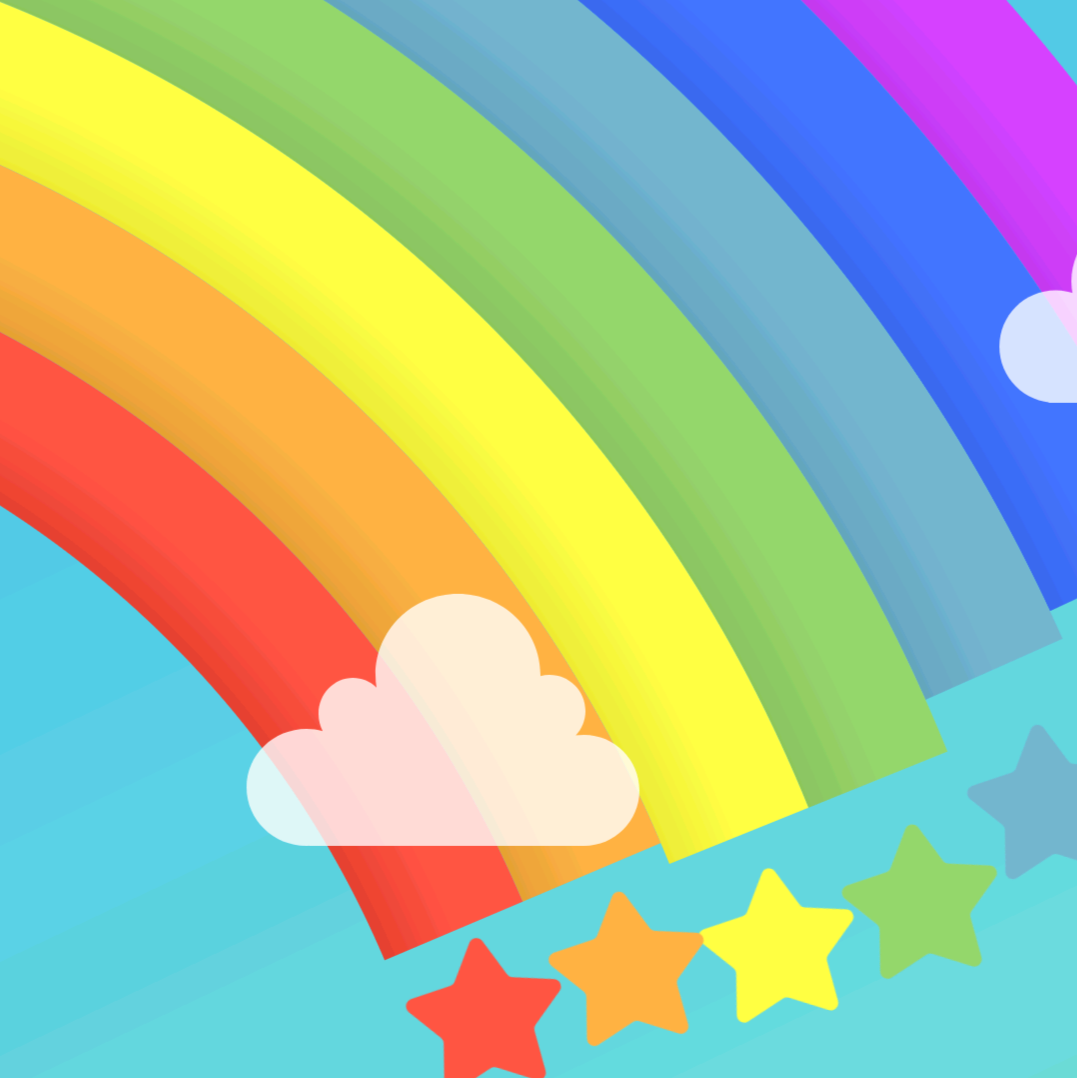
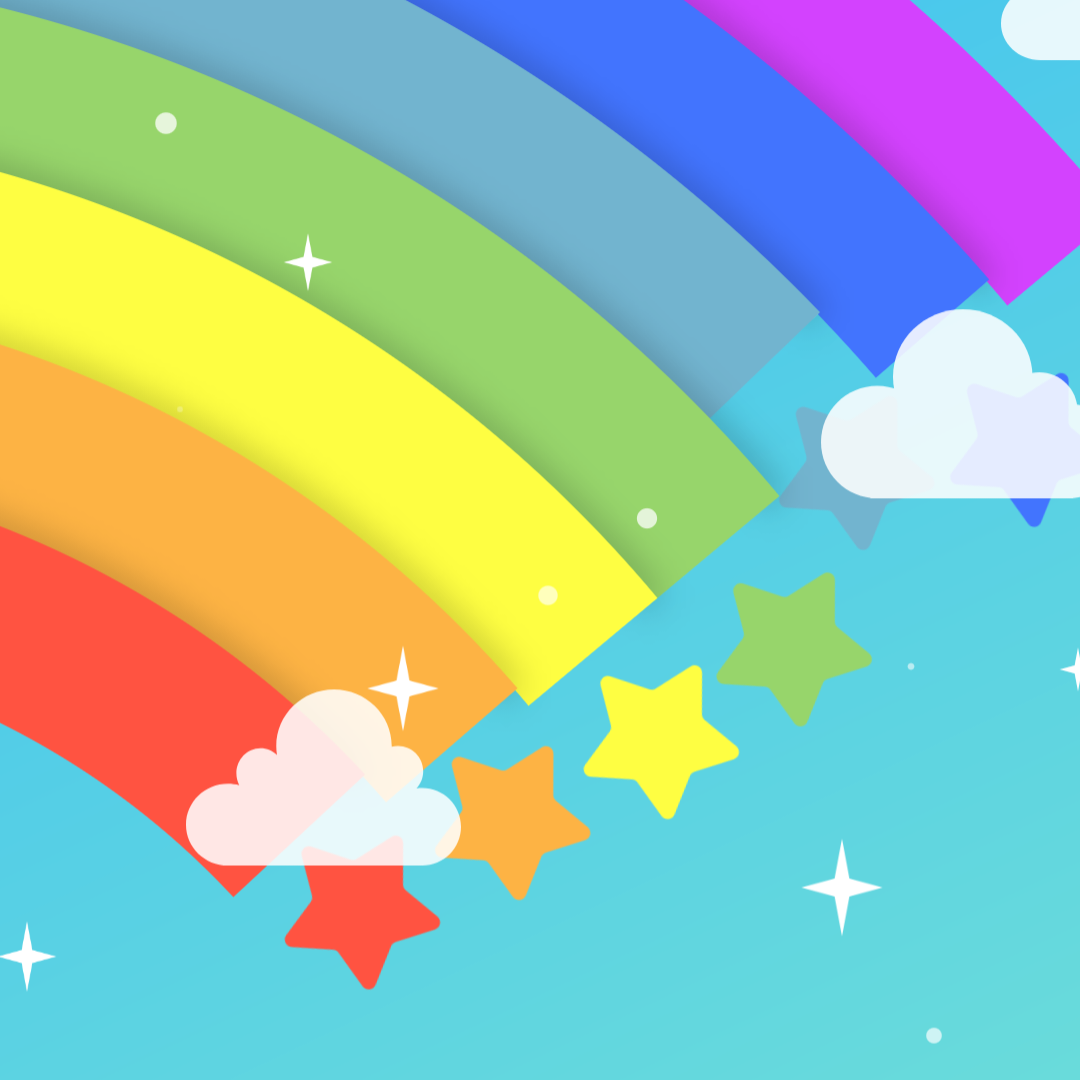
优化了混淆,优化一些小细节

diff --git a/app/src/main/java/com/bethena/healingwall/service/HealingWallService.kt b/app/src/main/java/com/bethena/healingwall/service/HealingWallService.kt
@@ -17,30 +17,37 @@ class HealingWallService : WallpaperService() {
 
     override fun onCreate() {
         super.onCreate()
-        LogUtil.d("HealingWallService onCreate-----${this}")
+        LogUtil.d("HealingWallService onCreate-----")
 //        App.appViewModel.wallChangeEvent.observe()
     }
 
     override fun onCreateEngine(): Engine {
-        LogUtil.d("HealingWallService onCreateEngine-----${this}")
+        LogUtil.d("HealingWallService onCreateEngine-----")
         return HealingWallEngine()
     }
 
 
     inner class HealingWallEngine : Engine() {
         var engineHandler: BaseEngineHandler? = null
+        var wallChangeListener = object : IHealingWallChange {
+            override fun change() {
+                engineHandler?.onDestroy()
+                initHandler(getSurfaceHolder())
+            }
+        }
+
         override fun onCreate(surfaceHolder: SurfaceHolder?) {
             super.onCreate(surfaceHolder)
             initHandler(getSurfaceHolder())
-            App.wallChange = object :IHealingWallChange{
-                override fun change() {
-                    initHandler(getSurfaceHolder())
-                }
-            }
-            LogUtil.d("HealingWallService HealingWallEngine onCreate-----${this@HealingWallService} $this")
+            App.wallChanges.add(wallChangeListener)
+            LogUtil.d(
+                "HealingWallService HealingWallEngine onCreate-----",
+                this@HealingWallService,
+                this
+            )
         }
 
-        fun initHandler(surfaceHolder: SurfaceHolder?){
+        fun initHandler(surfaceHolder: SurfaceHolder?) {
             var handlerClassName = App.spUtil.getString(Const.KEY_WALLS_NAME)
             var handlerClass = Class.forName(handlerClassName)
                 .asSubclass(BaseEngineHandler::class.java)
@@ -52,20 +59,21 @@ class HealingWallService : WallpaperService() {
 
         override fun onVisibilityChanged(visible: Boolean) {
             super.onVisibilityChanged(visible)
-            LogUtil.d("HealingWallService HealingWallEngine onVisibilityChanged-----$visible -- ${this@HealingWallService} $this")
+            LogUtil.d("HealingWallService HealingWallEngine onVisibilityChanged-----   ")
             engineHandler?.onVisibilityChanged(visible)
         }
 
         override fun onDestroy() {
             super.onDestroy()
-            LogUtil.d("HealingWallService HealingWallEngine onDestroy-----${this@HealingWallService} $this")
+            App.wallChanges.remove(wallChangeListener)
+            LogUtil.d("HealingWallService HealingWallEngine onDestroy-----")
             engineHandler?.onDestroy()
         }
 
 
         override fun onSurfaceCreated(surfaceHolder: SurfaceHolder?) {
             super.onSurfaceCreated(surfaceHolder)
-            LogUtil.d("HealingWallService HealingWallEngine onSurfaceCreated-----${this@HealingWallService}")
+            LogUtil.d("HealingWallService HealingWallEngine onSurfaceCreated-----")
 //            engineHandler?.onVisibilityChanged(visible)
         }
 
@@ -74,13 +82,13 @@ class HealingWallService : WallpaperService() {
         ) {
             super.onSurfaceChanged(surfaceHolder, format, width, height)
             engineHandler?.restart()
-            LogUtil.d("HealingWallService HealingWallEngine onSurfaceChanged-----${this@HealingWallService}")
+            LogUtil.d("HealingWallService HealingWallEngine onSurfaceChanged-----")
         }
 
         override fun onSurfaceDestroyed(surfaceHolder: SurfaceHolder?) {
             super.onSurfaceDestroyed(surfaceHolder)
 
-            LogUtil.d("HealingWallService HealingWallEngine onSurfaceDestroyed-----${this@HealingWallService}")
+            LogUtil.d("HealingWallService HealingWallEngine onSurfaceDestroyed-----")
         }
 
 
@@ -88,7 +96,7 @@ class HealingWallService : WallpaperService() {
 
     override fun onDestroy() {
         super.onDestroy()
-        LogUtil.d("HealingWallService onDestroy-----${this@HealingWallService}")
+        LogUtil.d("HealingWallService onDestroy-----")
     }
 
     companion object {
@@ -99,8 +107,9 @@ class HealingWallService : WallpaperService() {
             )
             activity.startActivity(intent)
             App.spUtil.putString(Const.KEY_WALLS_NAME, wallInfo.handlerClassName)
-            App.wallChange?.change()
-//            App.spUtil.putString(Const.KEY_WALLS_NAME, wallInfo.handlerClassName)
+            App.wallChanges.forEach {
+                it.change()
+            }
         }
     }
 

diff --git a/walls/rainbow/src/main/java/com/bethena/walls/rainbow/RainbowEngineHandler.kt b/walls/rainbow/src/main/java/com/bethena/walls/rainbow/RainbowEngineHandler.kt
@@ -62,6 +62,7 @@ class RainbowEngineHandler(context: Context) : BaseEngineHandler(context) {
         shaderPaint.maskFilter =
             BlurMaskFilter(ScreenUtil.dp2pxF(context, 10f), BlurMaskFilter.Blur.OUTER)
         var strokWidth = ScreenUtil.dp2pxF(context, 60f)
+        var radiusDiff = ScreenUtil.dp2pxF(context, 2f)
 //        var strokWidth = ScreenUtil.dp2pxF(context, 10f)
 //        rainbowPaint.maskFilter = maskFilter
         rainbowPaint.strokeWidth = strokWidth
@@ -90,21 +91,32 @@ class RainbowEngineHandler(context: Context) : BaseEngineHandler(context) {
         } else {
             canvas.width / 3 * 2
         }
-
+        var preRadius = 0f//上一条彩虹的半径
 //        (0 until 1).forEach { i ->
+
         (0..LAST_RAINBOW_INDEX).forEach { i ->
             var color = AppUtil.getColorValueByResName(context, "$baseColorResName${i + 1}")
             var color11 = AppUtil.getColorValueByResName(context, "$baseColorResName${i + 1}1")
             var bitmapStar =
                 DrawableUtil.getDrawableToBitmap(context, R.drawable.ig_rainbow_star, color, 2.5f)
+            var paintWidth = strokWidth - (radiusDiff * i)
+
+            var radius = if (preRadius == 0f) {
+                baseRadius + paintWidth
+            } else {
+                preRadius + paintWidth
+            }
+
             var rainbow = Rainbow(
                 color, color11,
                 cx.toFloat(),
                 cy.toFloat(),
-                baseRadius + (strokWidth * i),
+                paintWidth,
+                radius,
                 bitmapStar!!
             )
-            rainbow.paintHalfWidth = rainbowPaint.strokeWidth / 2 - shaderPaint.strokeWidth
+            preRadius = radius
+            rainbow.paintHalfWidth = paintWidth / 2 - shaderPaint.strokeWidth
             rainbow.degreeIncreate = rainbow.degreeIncreate * ratePer.value
             rainbow.alphaIncreate = rainbow.alphaIncreate * ratePer.value
             rainbow.starDegreeIncreate = rainbow.starDegreeIncreate * ratePer.value
@@ -207,12 +219,13 @@ class RainbowEngineHandler(context: Context) : BaseEngineHandler(context) {
                 drawList.forEach { a ->
                     if (a is Rainbow) {
                         rainbowPaint.color = a.color
-
+                        rainbowPaint.strokeWidth = a.paintWidth
                         var startAngle = -90f
-                        canvas.save()
 
+                        canvas.save()
                         canvas.rotate(startAngle, a.cx, a.cy)
                         rainbowPaint.alpha = a.alpha.toInt()
+
                         shaderPaint.alpha = a.alpha.toInt()
 //                        rainbowPaint.maskFilter = null
 //                        rainbowPaint.shader = a.shader.value
@@ -228,7 +241,11 @@ class RainbowEngineHandler(context: Context) : BaseEngineHandler(context) {
                         canvas.drawArc(a.arcRect, 0f, a.degree, false, rainbowPaint)
 //                        canvas.drawCircle(a.cx, a.cy, a.radius, rainbowPaint)
                         canvas.restore()
-                        var starDegree = a.degree + 5
+                        var starDegree = if (rainbowIndex == LAST_RAINBOW_INDEX) {
+                            a.degree + 6
+                        } else {
+                            a.degree + 5
+                        }
                         var starX =
                             a.cx + ((a.radius) * Math.sin(Math.toRadians(starDegree.toDouble()))) - a.starBitmap.width / 2
                         var starY =

diff --git a/walls_test/src/main/java/com/bethena/walls_test/MainTestActivity.kt b/walls_test/src/main/java/com/bethena/walls_test/MainTestActivity.kt
@@ -8,6 +8,8 @@ import android.net.Uri
 import android.os.*
 import android.view.*
 import android.view.PixelCopy.OnPixelCopyFinishedListener
+import android.view.animation.Animation
+import android.view.animation.ScaleAnimation
 import androidx.appcompat.app.AppCompatActivity
 import androidx.appcompat.widget.Toolbar
 import com.bethena.base_wall.utils.LogUtil
@@ -57,8 +59,29 @@ class MainTestActivity : AppCompatActivity(), Slider.OnChangeListener {
 
         })
 
+
+        surfaceView.postDelayed({
+//            var anim = AnimationUtils.loadAnimation(this,R.anim.surface_scale)
+//            var scaleAnimation = ScaleAnimation(
+//                1f,
+//                1f,
+//                0.5f,
+//                0.5f,
+//                Animation.RELATIVE_TO_SELF,
+//                0.5f,
+//                Animation.RELATIVE_TO_SELF,
+//                0.5f
+//            )
+////            anim.fillBefore = true
+//            scaleAnimation.duration = 100
+//            scaleAnimation.fillAfter = true
+//            surfaceView.animation = scaleAnimation
+//            scaleAnimation.start()
+        }, 1000)
+
         var slider = findViewById<Slider>(R.id.slider)
         slider.addOnChangeListener(this)
+
 
 
         findViewById<Slider>(R.id.slider_refresh_time).addOnChangeListener(this)
@@ -145,7 +168,7 @@ class MainTestActivity : AppCompatActivity(), Slider.OnChangeListener {
 //                        TestApp.wallEngineHandler?.isCutPicture = true
 
                         var bitmap = Bitmap.createBitmap(
-                            surfaceView.width, surfaceView.height, Bitmap.Config.RGB_565
+                            surfaceView.width, surfaceView.height, Bitmap.Config.ARGB_8888
                         )
 
                         var canvas = Canvas(bitmap)

diff --git a/walls/base_wall/src/main/java/com/bethena/base_wall/BaseEngineHandler.kt b/walls/base_wall/src/main/java/com/bethena/base_wall/BaseEngineHandler.kt
@@ -82,7 +82,12 @@ abstract class BaseEngineHandler {
     open fun onVisibilityChanged(visible: Boolean) {
         isPaused = false
         isVisible = visible
-        LogUtil.d("BaseEngineHandler onVisibilityChanged visible = $visible mContext = $mContext")
+        LogUtil.d(
+            "BaseEngineHandler onVisibilityChanged visible = ",
+            visible,
+            "mContext = ",
+            mContext
+        )
         if (mContext == null) {
             return
         }
@@ -102,7 +107,6 @@ abstract class BaseEngineHandler {
 
     open fun onDestroy() {
         pause()
-
     }
 
     fun restart() {
@@ -121,9 +125,9 @@ abstract class BaseEngineHandler {
 
     protected abstract fun doDraw()
 
-    abstract fun getMashValue():Int
+    abstract fun getMashValue(): Int
 
-    fun resetMash(){
+    fun resetMash() {
         mashColor = ColorUtil.adjustAlpha(
             Color.BLACK, getMashValue() / 100f
         )

diff --git a/walls/base_wall/src/main/java/com/bethena/base_wall/utils/LogUtil.kt b/walls/base_wall/src/main/java/com/bethena/base_wall/utils/LogUtil.kt
@@ -7,27 +7,35 @@ object LogUtil {
     val TAG = "LogUtils"
     val DEBUG = BuildConfig.DEBUG
 
-    fun d(tag: String, msg: String) {
+    fun d(tag: String, vararg msg: Any?) {
         if (DEBUG) {
-            Log.d(tag, msg)
+            var a = ""
+            msg.forEach {
+                a + it.toString()
+            }
+            Log.d(tag, a)
         }
     }
 
     fun d(msg: String) {
         if (DEBUG) {
-            Log.d(TAG, msg)
+            d(TAG, msg)
         }
     }
 
     fun e(msg: String) {
         if (DEBUG) {
-            Log.e(TAG, msg)
+            e(TAG, msg)
         }
     }
 
-    fun e(tag: String, msg: String) {
+    fun e(tag: String, vararg msg: Any?) {
         if (DEBUG) {
-            Log.e(tag, msg)
+            var a = ""
+            msg.forEach {
+                a + it.toString()
+            }
+            Log.e(tag, a)
         }
     }
 }

diff --git a/walls/circle/src/main/java/com/bethena/walls/circle/CircleLivingWallEngineHandler.kt b/walls/circle/src/main/java/com/bethena/walls/circle/CircleLivingWallEngineHandler.kt
@@ -29,7 +29,14 @@ class CircleLivingWallEngineHandler(context: Context?) : BaseEngineHandler(conte
                     val yAcceleration = event.values[1]
                     val zAcceleration = event.values[2]
 
-                    LogUtil.d("xAcceleration = $xAcceleration yAcceleration = $yAcceleration zAcceleration = $zAcceleration")
+                    LogUtil.d(
+                        "xAcceleration = ",
+                        xAcceleration,
+                        " yAcceleration = ",
+                        yAcceleration,
+                        " zAcceleration = ",
+                        zAcceleration
+                    )
                 }
             }
 

diff --git a/walls_test/src/main/java/com/bethena/walls_test/TestApp.kt b/walls_test/src/main/java/com/bethena/walls_test/TestApp.kt
@@ -18,8 +18,8 @@ class TestApp: Application() {
 
     override fun onCreate() {
         super.onCreate()
-        wallEngineHandler = SpaceEngineHandler(this)
-//        wallEngineHandler = RainbowEngineHandler(this)
+//        wallEngineHandler = SpaceEngineHandler(this)
+        wallEngineHandler = RainbowEngineHandler(this)
 //        wallEngineHandler = StarrySkyEngineHandler(this)
     }
 }

diff --git a/app/src/main/java/com/bethena/healingwall/App.kt b/app/src/main/java/com/bethena/healingwall/App.kt
@@ -19,7 +19,7 @@ class App : BaseApp() {
         var spUtil: SpUtil by Delegates.notNull()
         var thiz: App by Delegates.notNull()
         var wallModules = arrayListOf<BaseWallModule>()
-        var wallChange: IHealingWallChange? = null
+        var wallChanges = arrayListOf<IHealingWallChange>()
         lateinit var appViewModel: AppViewModel
     }
 

diff --git a/app/src/main/java/com/bethena/healingwall/ui/settings/SettingsFragment.kt b/app/src/main/java/com/bethena/healingwall/ui/settings/SettingsFragment.kt
@@ -66,7 +66,6 @@ class SettingsFragment : PreferenceFragmentCompat(),
     }
 
     override fun onSharedPreferenceChanged(sp: SharedPreferences?, key: String?) {
-        LogUtil.d("key = $key")
         if (sp == null || key == null) {
             return
         }

diff --git a/walls/rainbow/src/main/java/com/bethena/walls/rainbow/Rainbow.kt b/walls/rainbow/src/main/java/com/bethena/walls/rainbow/Rainbow.kt
@@ -8,6 +8,7 @@ data class Rainbow(
     val color11: Int,
     val cx: Float,
     val cy: Float,
+    val paintWidth:Float,
     val radius: Float,
     val starBitmap: Bitmap
 ) {
